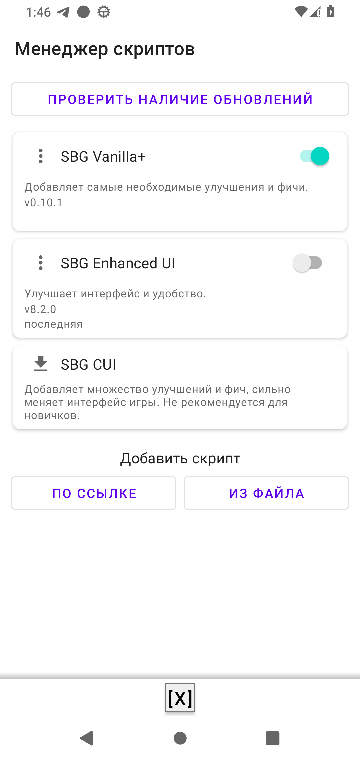
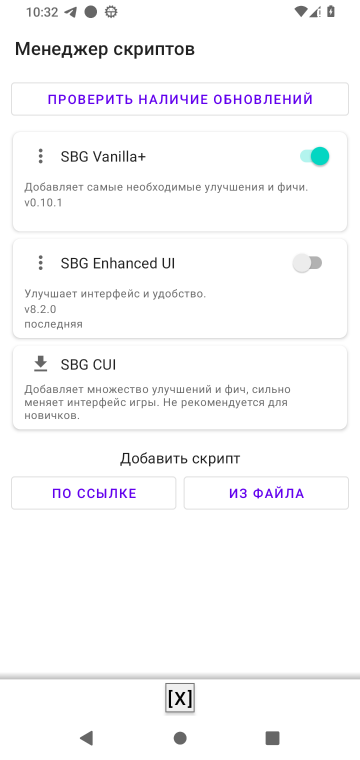
Исправить сглаживание README-скриншотов при уменьшении

diff --git a/app/src/androidTest/java/com/github/wrager/sbgscout/e2e/screenshots/ReadmeScreenshotCaptureTest.kt b/app/src/androidTest/java/com/github/wrager/sbgscout/e2e/screenshots/ReadmeScreenshotCaptureTest.kt
@@ -1,0 +1,108 @@
+package com.github.wrager.sbgscout.e2e.screenshots
+
+import android.graphics.Bitmap
+import android.graphics.Color
+import androidx.test.ext.junit.runners.AndroidJUnit4
+import org.junit.Assert.assertEquals
+import org.junit.Assert.assertFalse
+import org.junit.Assert.assertSame
+import org.junit.Assert.assertTrue
+import org.junit.Test
+import org.junit.runner.RunWith
+
+@RunWith(AndroidJUnit4::class)
+class ReadmeScreenshotCaptureTest {
+    @Test
+    fun reductionByThree_preservesVerticalLinesAcrossPixelPhases() {
+        val brightness = (0..2).map { phase -> assertFineLinesSurvive(vertical = true, phase = phase) }
+        assertTrue(
+            "Контраст вертикальных штрихов зависит от фазы: $brightness",
+            brightness.max() - brightness.min() <= 32,
+        )
+    }
+
+    @Test
+    fun reductionByThree_preservesHorizontalLinesAcrossPixelPhases() {
+        val brightness = (0..2).map { phase -> assertFineLinesSurvive(vertical = false, phase = phase) }
+        assertTrue(
+            "Контраст горизонтальных штрихов зависит от фазы: $brightness",
+            brightness.max() - brightness.min() <= 32,
+        )
+    }
+
+    @Test
+    fun fractionalReduction_preservesAspectRatioAndSolidColor() {
+        for ((width, expectedHeight) in listOf(900 to 24, 721 to 29)) {
+            val source = Bitmap.createBitmap(width, 60, Bitmap.Config.ARGB_8888)
+            source.eraseColor(Color.rgb(80, 140, 200))
+            val scaled = ReadmeScreenshotCapture.scaleToTargetWidth(source)
+            try {
+                assertEquals(360, scaled.width)
+                assertEquals(expectedHeight, scaled.height)
+                assertEquals(source.getPixel(0, 0), scaled.getPixel(180, 12))
+                assertFalse(source.isRecycled)
+            } finally {
+                scaled.recycle()
+                source.recycle()
+            }
+        }
+    }
+
+    @Test
+    fun targetWidth_preservesOriginalPixels() {
+        val source = Bitmap.createBitmap(360, 24, Bitmap.Config.ARGB_8888)
+        source.eraseColor(Color.rgb(80, 140, 200))
+        try {
+            assertSame(source, ReadmeScreenshotCapture.scaleToTargetWidth(source))
+        } finally {
+            source.recycle()
+        }
+    }
+
+    @Test
+    fun captureProfile_acceptsPixel4AtDefaultFontScale() {
+        ReadmeScreenshotCapture.requireCaptureProfile(1080, 2280, 440, 1f)
+    }
+
+    @Test(expected = IllegalArgumentException::class)
+    fun captureProfile_rejectsDifferentScreenSize() {
+        ReadmeScreenshotCapture.requireCaptureProfile(1080, 1920, 440, 1f)
+    }
+
+    @Test(expected = IllegalArgumentException::class)
+    fun captureProfile_rejectsDifferentDensity() {
+        ReadmeScreenshotCapture.requireCaptureProfile(1080, 2280, 480, 1f)
+    }
+
+    @Test(expected = IllegalArgumentException::class)
+    fun captureProfile_rejectsDifferentFontScale() {
+        ReadmeScreenshotCapture.requireCaptureProfile(1080, 2280, 440, 1.2f)
+    }
+
+    private fun assertFineLinesSurvive(
+        vertical: Boolean,
+        phase: Int,
+    ): Int {
+        val source = Bitmap.createBitmap(1080, 18, Bitmap.Config.ARGB_8888)
+        val pixels =
+            IntArray(source.width * source.height) { index ->
+                val coordinate = if (vertical) index % source.width else index / source.width
+                if (coordinate % 3 == phase) Color.BLACK else Color.WHITE
+            }
+        source.setPixels(pixels, 0, source.width, 0, 0, source.width, source.height)
+        val scaled = ReadmeScreenshotCapture.scaleToTargetWidth(source)
+        try {
+            assertEquals(360, scaled.width)
+            assertEquals(6, scaled.height)
+            val brightness = Color.red(scaled.getPixel(180, 3))
+            assertTrue(
+                "Тонкие линии потеряны: vertical=$vertical, phase=$phase, brightness=$brightness",
+                brightness in 32..240,
+            )
+            return brightness
+        } finally {
+            scaled.recycle()
+            source.recycle()
+        }
+    }
+}

diff --git a/app/src/androidTest/java/com/github/wrager/sbgscout/e2e/screenshots/ReadmeScreenshot.kt b/app/src/androidTest/java/com/github/wrager/sbgscout/e2e/screenshots/ReadmeScreenshot.kt
@@ -91,6 +91,7 @@ object ReadmeScreenshotCapture {
     ) {
         val full = ScrollStitchCapture.takeScreenshot()
         try {
+            requireDeviceProfile(full)
             val safeRegion = clamp(region, full.width, full.height)
             val cropped =
                 Bitmap.createBitmap(
@@ -101,7 +102,7 @@ object ReadmeScreenshotCapture {
                     safeRegion.height(),
                 )
             try {
-                writePng(name, if (nativeResolution) cropped else scaleToTargetWidth(cropped))
+                writePng(name, cropped, nativeResolution)
             } finally {
                 cropped.recycle()
             }
@@ -169,9 +170,15 @@ object ReadmeScreenshotCapture {
         name: String,
         scrollable: RecyclerView,
     ) {
+        val frame = ScrollStitchCapture.takeScreenshot()
+        try {
+            requireDeviceProfile(frame)
+        } finally {
+            frame.recycle()
+        }
         val stitched = ScrollStitchCapture.captureScrollableStitched(scrollable)
         try {
-            writePng(name, scaleToTargetWidth(stitched))
+            writePng(name, stitched)
         } finally {
             stitched.recycle()
         }
@@ -180,18 +187,60 @@ object ReadmeScreenshotCapture {
     private fun writePng(
         name: String,
         bitmap: Bitmap,
+        nativeResolution: Boolean = false,
     ) {
-        val storage = PlatformTestStorageRegistry.getInstance()
-        storage.openOutputFile("readme/$name.png").use { stream ->
-            bitmap.compress(Bitmap.CompressFormat.PNG, 100, stream)
+        val output = if (nativeResolution) bitmap else scaleToTargetWidth(bitmap)
+        try {
+            val storage = PlatformTestStorageRegistry.getInstance()
+            storage.openOutputFile("readme/$name.png").use { stream ->
+                output.compress(Bitmap.CompressFormat.PNG, 100, stream)
+            }
+        } finally {
+            if (output !== bitmap) output.recycle()
         }
     }
 
-    private fun scaleToTargetWidth(bitmap: Bitmap): Bitmap {
+    internal fun scaleToTargetWidth(bitmap: Bitmap): Bitmap {
         if (bitmap.width == TARGET_WIDTH_PX) return bitmap
         val scale = TARGET_WIDTH_PX.toFloat() / bitmap.width
         val targetHeight = (bitmap.height * scale).toInt().coerceAtLeast(1)
-        return Bitmap.createScaledBitmap(bitmap, TARGET_WIDTH_PX, targetHeight, true)
+        var nextWidth = TARGET_WIDTH_PX
+        while (nextWidth * 2 < bitmap.width) nextWidth *= 2
+        var current = bitmap
+        try {
+            while (nextWidth > TARGET_WIDTH_PX) {
+                val nextHeight = (bitmap.height * nextWidth.toFloat() / bitmap.width).toInt().coerceAtLeast(1)
+                val next = Bitmap.createScaledBitmap(current, nextWidth, nextHeight, true)
+                if (current !== bitmap) current.recycle()
+                current = next
+                nextWidth /= 2
+            }
+            return Bitmap.createScaledBitmap(current, TARGET_WIDTH_PX, targetHeight, true)
+        } finally {
+            if (current !== bitmap) current.recycle()
+        }
+    }
+
+    private fun requireDeviceProfile(frame: Bitmap) {
+        val resources = InstrumentationRegistry.getInstrumentation().targetContext.resources
+        requireCaptureProfile(
+            frame.width,
+            frame.height,
+            resources.displayMetrics.densityDpi,
+            resources.configuration.fontScale,
+        )
+    }
+
+    internal fun requireCaptureProfile(
+        width: Int,
+        height: Int,
+        densityDpi: Int,
+        fontScale: Float,
+    ) {
+        require(width == 1080 && height == 2280 && densityDpi == 440 && fontScale == 1f) {
+            "README-снимкам нужен Pixel 4 1080x2280, 440 dpi, fontScale=1.0; " +
+                "получено ${width}x$height, $densityDpi dpi, fontScale=$fontScale"
+        }
     }
 
     private fun clamp(

diff --git a/docs/architecture.md b/docs/architecture.md
@@ -464,6 +464,8 @@ WebView-экраны (`game-settings`, `login`, `game-loading`) только в 
 
 README-снимки создаются локально через `updateReadmeScreenshots` при подготовке релиза. `game_loading.png` сохраняется в исходной ширине 1080 px и отображается в README с шириной 360 px. `game_settings.png` может использовать локальный приватный snapshot из `refs/game/private`; mock-вариант настроек отдельно покрыт VR baseline `game-settings-light.png`.
 
+Перед захватом README-снимка проверяются физический кадр 1080x2280, плотность 440 dpi и масштаб шрифта 1.0. Несовпадение останавливает генерацию с фактическими параметрами устройства. Снимки шириной 360 px уменьшаются через промежуточные размеры, кратные итоговому, с коэффициентом не более двух за шаг: для 1080 px это 1080 -> 720 -> 360. Это сохраняет тонкие штрихи текста, которые теряются при уменьшении втрое за один проход. Проверка тонких линий по обеим осям и при разных сдвигах входит в `ReadmeScreenshotCaptureTest`.
+
 Скилл `scout-visual-regression` описывает проверку и обновление baseline для Codex и Claude Code (см. [общий источник](../.agents/skills/scout-visual-regression/SKILL.md)).
 
 ### CI
@@ -489,4 +491,4 @@ RELEASE_NOTES.md и .release-notes.json формируются общей ком
 связывает комментарий, main, версию и хеш содержимого, а publish повторяет её
 на SHA выпуска. Подробности: [процесс релиза](releasing.md).
 
-🤖 Generated with GPT-6 Sol
+🤖 Generated with GPT-6.1 Sol
